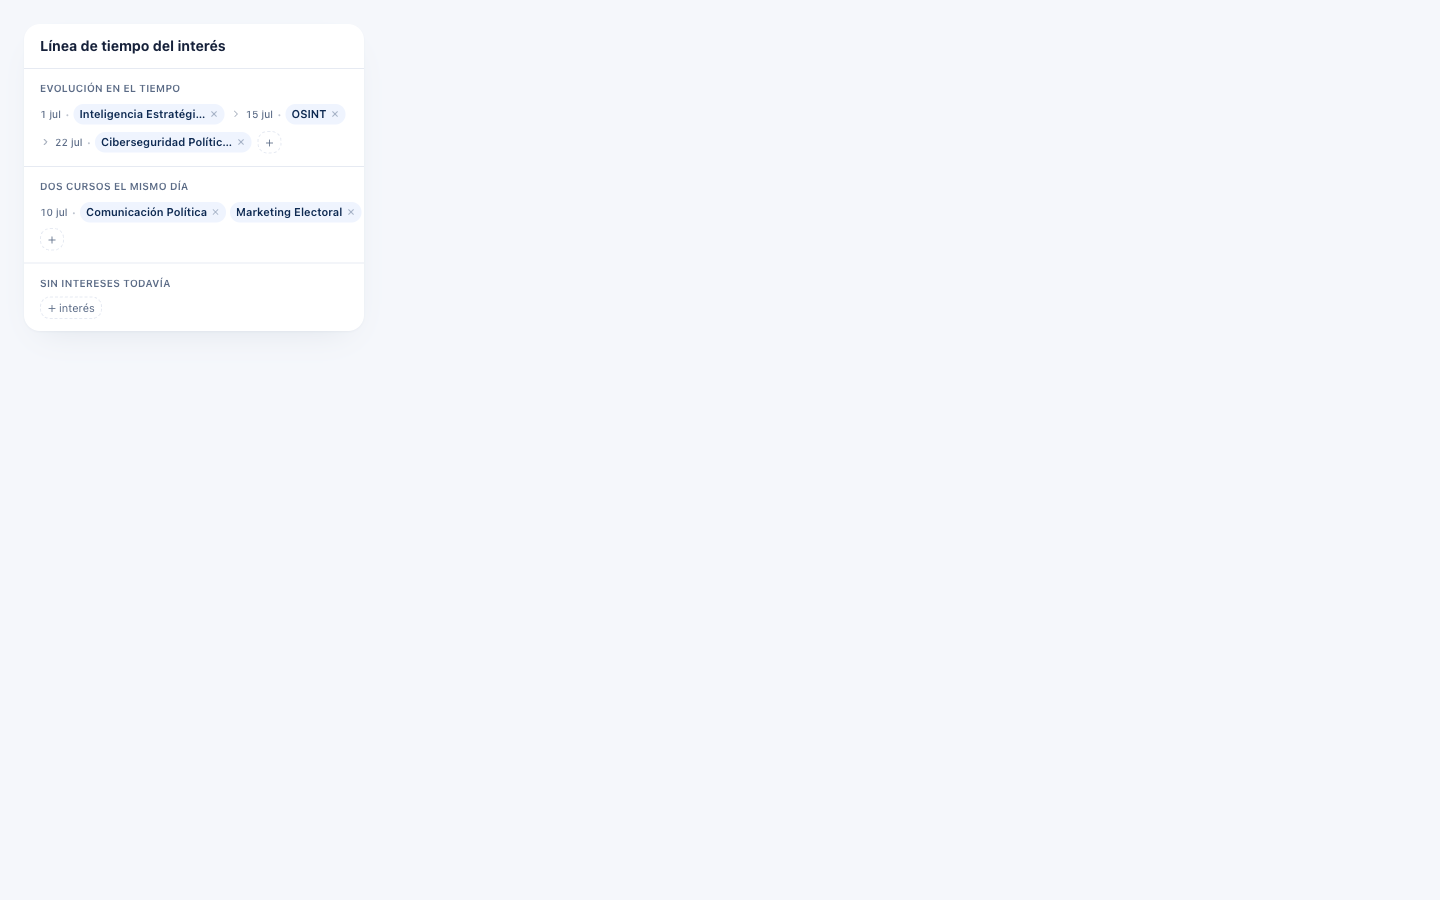
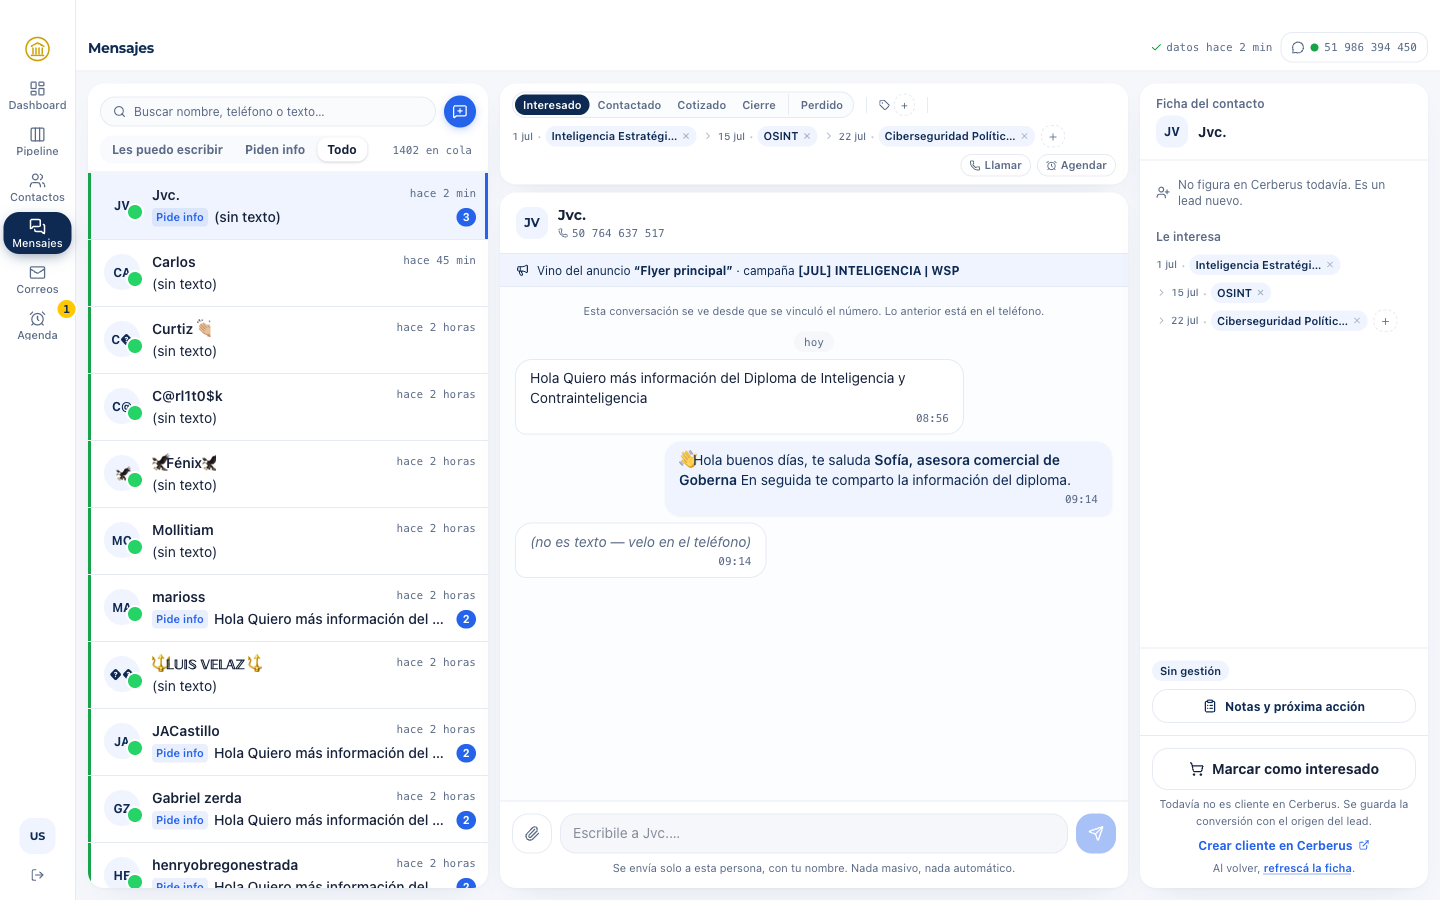
feat(intereses): el timeline vive también en la ficha del aside, no solo en la BarraGestion
El issue #57 pide la línea de tiempo en la ficha del contacto (el aside de
Mensajes), y ahí es donde la vendedora la lee antes de escribir. Hasta ahora el
componente solo se montaba en la BarraGestion (arriba del chat) y en la card del
Embudo; el aside —FichaContacto para WhatsApp, PanelContexto para Meta— no lo
mostraba. Se cablea en ambos con una sección «Le interesa».

En FichaContacto va SIEMPRE (cliente, lead nuevo o Cerberus caído): el interés es
dato de Hermes, no de la ficha de Cerberus, así que no depende de su estado.

Evidencia (regla dura #2) sobre la app REAL logueada (GET-only contra producción,
intereses interceptados con la forma nueva que devolverá el backend ya mergeado):
- 57-timeline-intereses-desktop.png: Mensajes completo, el timeline en la ficha.
- 57-timeline-intereses-ficha.png: la ficha sola (vista angosta, ~288px).
La captura a 390px se descartó: la bandeja de 3 paneles es layout de escritorio
(Tauri) y no reflowea a ancho de teléfono — el ancho real de la ficha es 288px.

diff --git a/src/features/canales/PanelContexto.tsx b/src/features/canales/PanelContexto.tsx
@@ -7,6 +7,7 @@ import { BadgeCanal, nombreCanal } from './BadgeCanal';
 import HistorialPersona from './HistorialPersona';
 import { Avatar } from './Avatar';
 import { RegistrarGestion } from '../gestion/RegistrarGestion';
+import { Intereses } from '../gestion/Intereses';
 
 /**
  * EL PANEL DE CONTEXTO — el lado derecho cuando la conversación es de Meta.
@@ -122,6 +123,13 @@ export function PanelContexto({ conversacion }: { conversacion: Conversacion }) 
             </div>
           </>
         )}
+
+        {/* La línea de tiempo del interés: qué cursos pidió y cuándo (#57). Es la
+            ficha del contacto en el aside — acá se lee la evolución de un vistazo. */}
+        <div className={'mt-5 ' + sectionLabel}>Le interesa</div>
+        <div className="mt-2">
+          <Intereses clave={conversacion.clave} compacto />
+        </div>
       </div>
 
       {/* La bitácora comercial: etapa + próxima acción (cae en la Agenda) + notas. */}

diff --git a/src/features/cerberus/FichaContacto.tsx b/src/features/cerberus/FichaContacto.tsx
@@ -8,6 +8,7 @@ import type { Conversacion } from '../canales/conversaciones';
 import { Avatar } from '../canales/Avatar';
 import { FormularioVenta } from '../venta/FormularioVenta';
 import { RegistrarGestion } from '../gestion/RegistrarGestion';
+import { Intereses } from '../gestion/Intereses';
 
 /**
  * LA FICHA DEL CONTACTO — la razón de ser de Hermes.
@@ -222,6 +223,14 @@ export function FichaContacto({
             </a>
           </div>
         ) : null}
+
+        {/* La línea de tiempo del interés: qué cursos pidió y cuándo (#57). Va
+            SIEMPRE (sea cliente, lead nuevo o Cerberus caído): el interés es dato
+            de Hermes, no de la ficha de Cerberus. */}
+        <div className={'mt-5 ' + sectionLabel}>Le interesa</div>
+        <div className="mt-2">
+          <Intereses clave={conversacion.clave} compacto />
+        </div>
       </div>
 
       {/* La bitácora comercial: próxima acción (cae en la Agenda) + notas. */}
